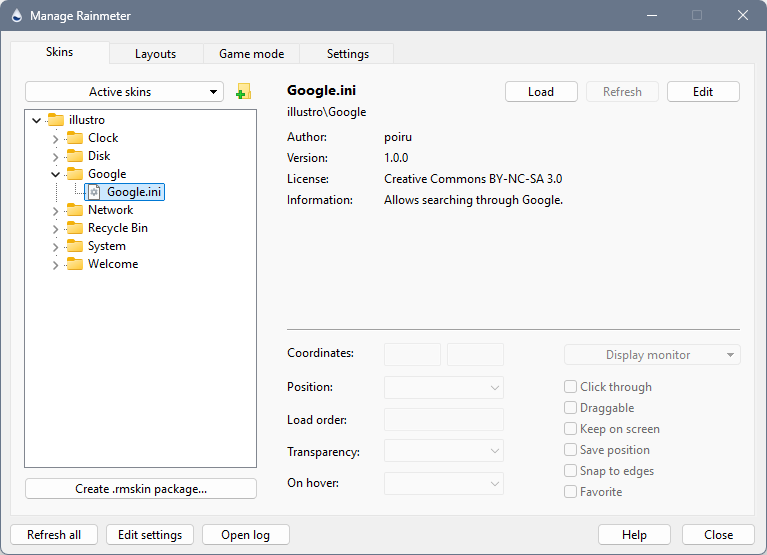
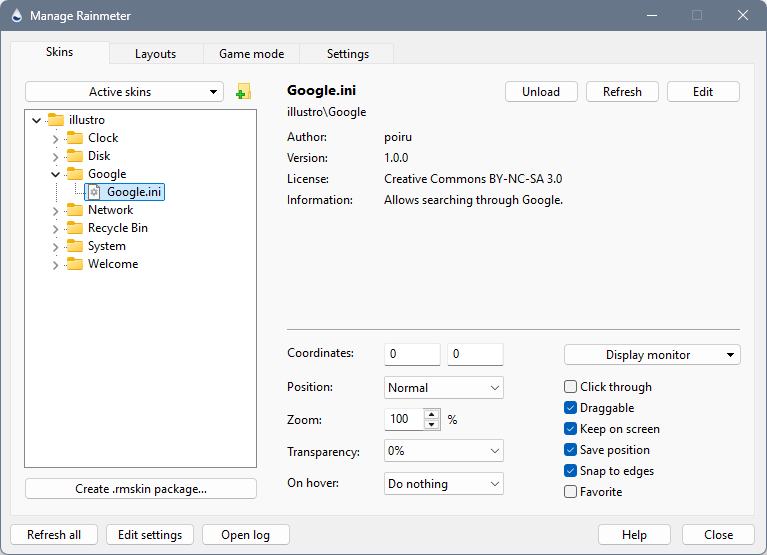
Changes for 5.0

diff --git a/source/manual/user-interface/manage/index.html b/source/manual/user-interface/manage/index.html
@@ -111,7 +111,7 @@ title: 'Manage'
 <ul>
 <li><b>Coordinates</b>: The <a href="!settings/skin-sections/#WindowXY">window X and Y</a> location of the skin on the screen in pixels.</li>
 <li><b>Position</b>: The <a href="!settings/skin-sections/#AlwaysOnTop">z-position</a> of the skin on the desktop relative to other windows.</li>
-<li><b>Load order</b>: The <a href="!settings/skin-sections/#LoadOrder">loading order</a> of the skin on the desktop relative to other skins.</li>
+<li><b>Zoom</b>: The <a href="!settings/skin-sections/#Zoom">zoom</a> percentage (10 - 500) of the skin on the desktop. Hold down CTRL to increase - decrease by 10.</li>
 <li><b>Transparency</b>: The <a href="!settings/skin-sections/#AlphaValue">transparency</a> of the skin.</li>
 <li><b>On hover</b>: The <a href="!settings/skin-sections/#OnHover">on hover</a> behavior of the skin.</li>
 <li><b>Draggable</b>: The <a href="!settings/skin-sections/#Draggable">draggable</a> setting for the skin.</li>
@@ -244,7 +244,7 @@ title: 'Manage'
 <ul>
 <li><b>Language:</b><br>Use the pull-down menu to select the desired language for all Rainmeter user interfaces. This does not have any effect on languages used in skins.</li>
 <li><b>Editor:</b><br>Enter or browse to the text editor that will be used when "Edit skin" or "Edit settings" is selected.</li>
-<li><b>Default zoom:</b><br>The zoom value in a percentage (1 - 500) for all loaded skins. This can be forced and not allowd to change, with the <code>Force</code> radio button. This defaults to 100%.</li>
+<li><b>Default zoom:</b><br>The zoom value in a percentage (10 - 500) for all loaded skins. This can be forced and not allowd to change, with the <code>Force</code> radio button. This defaults to 100%.</li>
 <li><b>Check for updates</b><br>When started, Rainmeter will check for a newer version. A notification will be raised to alert the user to the new version, and clicking on the notification will take the user to https://www.rainmeter.net in the default browser, where the new version can be manually downloaded and installed if desired.</li>
 <li><b>Automatically install updates</b><br>If both this checkbox and "Check for updates" are enabled, Rainmeter will automatically download and install any new version of the software it finds when started. If "Check for updates" is not checked, this setting is disabled and ignored.</li>
 <li><b>Disable dragging</b><br>If selected, automatically sets the <b>draggable</b> state of all active skins to prevent dragging skins with the mouse.</li>

diff --git a/source/manual/settings/rainmeter-section.html b/source/manual/settings/rainmeter-section.html
@@ -40,6 +40,16 @@ title: '[Rainmeter] section'
 		<p>If set to <code>1</code>, <code>DesktopWorkArea</code> will be define margins relative to the edges of the screen.</p>
 		<p><b>Example:</b> With <code>DesktopWorkAreaType=0</code> and <code>DesktopWorkArea=10,20,600,500</code>, maximized windows will use an area of 600x500 pixels, which is located 10 pixels from the left and 20 pixels from the top of the screen. With <code>DesktopWorkAreaType=1</code> and <code>DesktopWorkArea=10,20,30,40</code>, the area for maximized windows will be 10 pixels from the left, 20 pixels from the top, 30 pixels from the right, and 40 pixels from the bottom of the screen.</p>
 	</dd>
+	
+	<dt id="DefaultZoom"><code>DefaultZoom</code> <small>Default: <code>100</code></small></dt>
+	<dd>
+		<p>A default amount of Zoom that will be applied to every loaded skin. This is a percentage from 10% to 500%. This can be overridden at the skin level.</p>
+	</dd>
+	
+	<dt id="ForceDefaultZoom"><code>ForceDefaultZoom</code> <small>Default: <code>0</code></small></dt>
+	<dd>
+		<p>If set to <code>1</code>, the amount of Zoom defined in DefaultZoom will be locked, and individual skins will not be able to override the value.<i>This should be used with caution.</i></p>
+	</dd>	
 
 	<dt id="Logging"><code>Logging</code> <small>Default: <code>0</code></small></dt>
 	<dd>
@@ -66,7 +76,7 @@ title: '[Rainmeter] section'
 		<p>If set to <code>1</code>, sets the draggable state of <b>all</b> active skins to prevent dragging skins with the mouse.</p>
 	</dd>
 
-	<dt id="SelectedColor"><code>SelectedColor</code> <small>Default: <code>255,0,0,90</code></small></dt>
+	<dt id="SelectedColor"><code>SelectedColor</code> <small>Default: <code>173,216,230,90</code></small></dt>
 	<dd>
 		<p>A <a href="!skins/option-types/#Color">color code</a> used to define the color and transparency of the overlay when a skin is selected in a <a href="!arranging-skins/#Multiple">Drag Group</a>.</p>
 	</dd>

diff --git a/source/manual/arranging-skins.html b/source/manual/arranging-skins.html
@@ -30,6 +30,14 @@ title: 'Arranging Skins'
 
 <p>A handy feature, only available when one or more skins are selected in a drag group, is the ability to "nudge" the skin or skins using the keyboard arrow keys. When a skin or skins are selected, using the keyboard arrow keys will move the skin(s) 1 pixel in the direction of the arrow, or 10 pixels if CTRL is held down. This is very useful for fine-tuning the position of a skin or skins on your screen, and is available even if only one skin is selected.</p>
 
+<h3 id="Zoom">Zoom</h3>
+
+<p>When one or more skins are selected in a drag group, a skin or skins may be dragged by the corners or a side and zoomed to a different size. This will be done with no loss in visible quality. A skin may be reduced to a minimum of 10% or increased to a maximum of 500% of the original size.</p>
+
+<div class="exampleprev">
+<a href="!img/arranging-skins/ZoomAnimate.gif" data-fancybox><img src="!img/arranging-skins/ZoomAnimate.gif"></a>
+</div>
+
 <h3 id="GroupOptions">Options for drag groups</h3>
 
 <p>These must be manually entered in either <a href="!settings/#FilesFolders">Rainmeter.ini</a> or a skin's .ini file</p>
